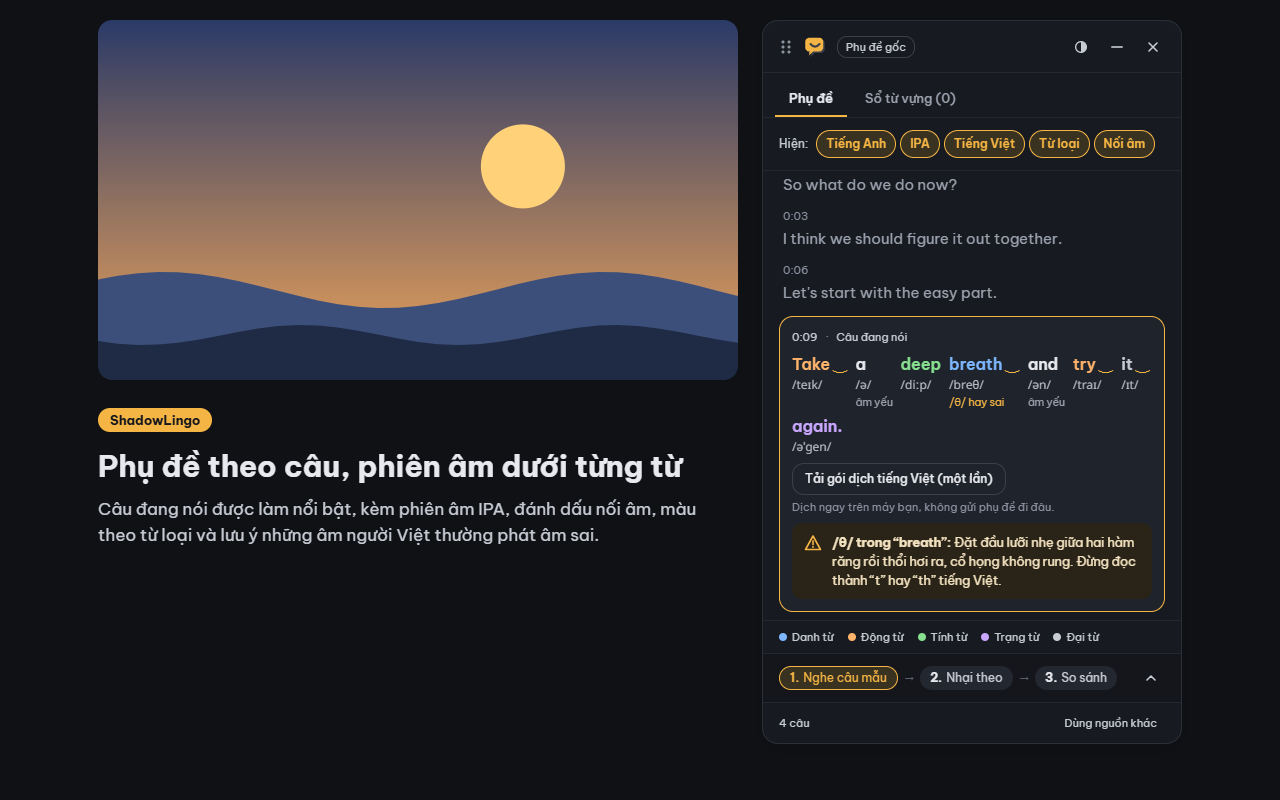
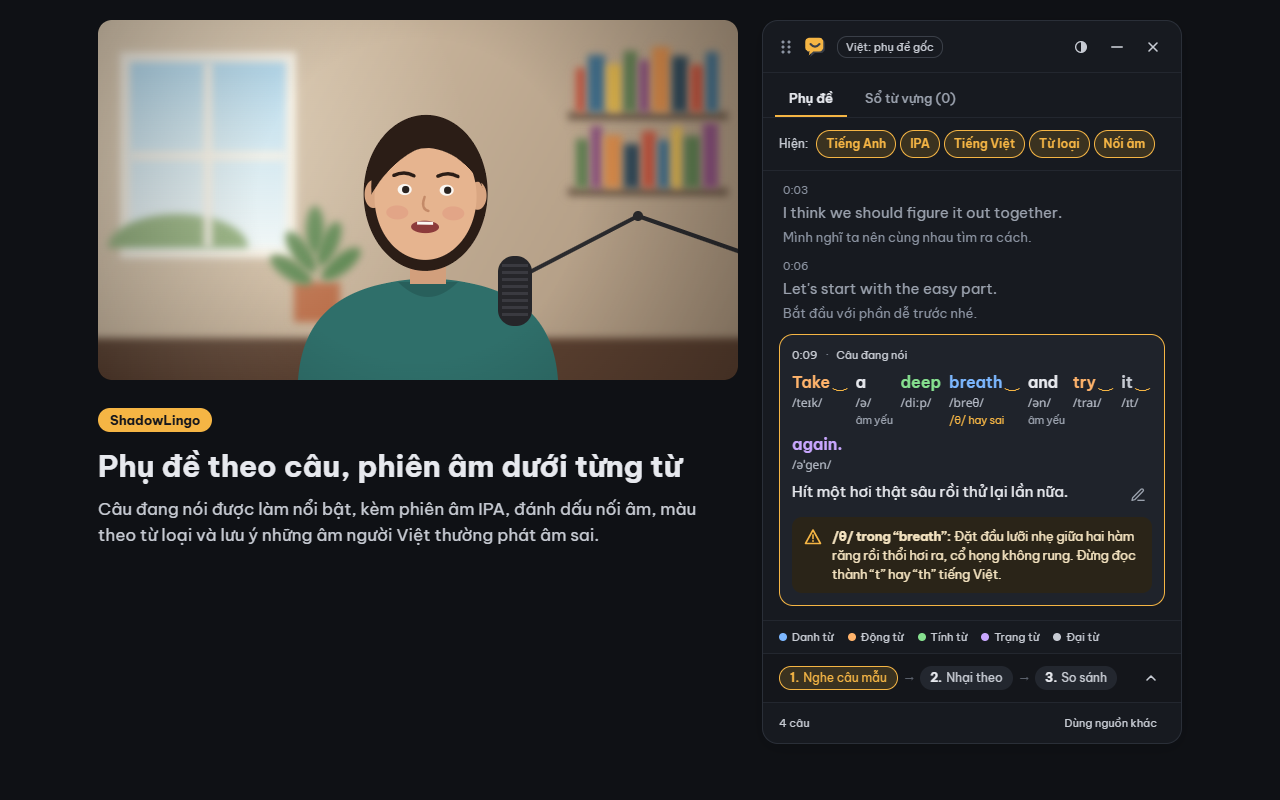
docs: demos show a speaker scene and Vietnamese captions

Changed region(s): [[0.0625, 0.0, 0.9062, 0.75], [0.6562, 0.0312, 0.7188, 0.0625]]

diff --git a/apps/extension/e2e/demo/scene.ts b/apps/extension/e2e/demo/scene.ts
@@ -1,0 +1,200 @@
+// The drawn "video" for the README demos and store screenshots, shared by the extension and the
+// desktop demo: a speaker in a room, like a podcast shot. No real video or person is shown.
+// Kept free of imports and outer variables: callers send its source into the page as a string.
+
+/**
+ * Draws the scene on `canvas` (any 16:9 size) every frame. The speaker talks while a line is
+ * on; `burned` also paints the lines on the picture, like burned-in subtitles.
+ */
+export function speakerScene(
+  canvas: HTMLCanvasElement,
+  lines: [number, number, string][],
+  burned: boolean,
+): void {
+  const k = canvas.width / 640;
+  const g = canvas.getContext('2d');
+  if (!g) return;
+  // A drawn speaker in a room, like a podcast or vlog shot. The room is drawn once, blurred
+  // like a shallow depth of field; the speaker moves, blinks and talks over it.
+  const room = document.createElement('canvas');
+  room.width = canvas.width;
+  room.height = canvas.height;
+  const r = room.getContext('2d');
+  if (!r) return;
+  r.scale(k, k);
+  r.filter = `blur(${4 * k}px)`;
+  const wall = r.createLinearGradient(0, 0, 640, 360);
+  wall.addColorStop(0, '#d9c6ad');
+  wall.addColorStop(1, '#a8927a');
+  r.fillStyle = wall;
+  r.fillRect(-10, -10, 660, 380);
+  const sky = r.createLinearGradient(0, 40, 0, 230);
+  sky.addColorStop(0, '#9fd0ee');
+  sky.addColorStop(1, '#eef7fb');
+  r.fillStyle = '#f4efe6';
+  r.fillRect(22, 32, 176, 206);
+  r.fillStyle = sky;
+  r.fillRect(32, 42, 156, 186);
+  r.fillStyle = '#7fa36b';
+  r.beginPath();
+  r.ellipse(80, 228, 70, 34, 0, Math.PI, 0);
+  r.fill();
+  r.fillStyle = '#f4efe6';
+  r.fillRect(106, 42, 8, 186);
+  r.fillRect(32, 132, 156, 8);
+  r.fillStyle = '#6e5a48';
+  r.fillRect(470, 92, 160, 8);
+  r.fillRect(470, 168, 160, 8);
+  const books = ['#c4553f', '#3f6e8c', '#e0b54a', '#5d7d4f', '#8a4f7d', '#d98b4a', '#2f4858'];
+  for (const [shelf, y] of [92, 168].entries()) {
+    let x = 478;
+    for (let i = 0; x < 620; i++) {
+      const w = 10 + ((i * 7 + shelf * 3) % 9);
+      const h = 44 + ((i * 13 + shelf * 5) % 22);
+      r.fillStyle = books[(i + shelf * 3) % books.length] ?? '#c4553f';
+      r.fillRect(x, y - h, w, h);
+      x += w + 2;
+    }
+  }
+  r.fillStyle = '#b5653f';
+  r.fillRect(196, 262, 46, 40);
+  r.fillStyle = '#4f7d45';
+  const leaves: [number, number, number][] = [
+    [-16, -30, -0.6],
+    [12, -38, 0.4],
+    [-2, -52, 0],
+    [24, -18, 0.9],
+    [-26, -12, -1],
+  ];
+  for (const [dx, dy, a] of leaves) {
+    r.beginPath();
+    r.ellipse(219 + dx, 262 + dy, 9, 24, a, 0, Math.PI * 2);
+    r.fill();
+  }
+  r.fillStyle = '#5b4030';
+  r.fillRect(-10, 318, 660, 60);
+  r.filter = 'none';
+  const glow = r.createRadialGradient(110, 130, 10, 110, 130, 260);
+  glow.addColorStop(0, 'rgba(255,248,230,0.35)');
+  glow.addColorStop(1, 'rgba(255,248,230,0)');
+  r.fillStyle = glow;
+  r.fillRect(0, 0, 640, 360);
+
+  const SKIN = '#e6b48f';
+  const ell = (x: number, y: number, rx: number, ry: number, fill: string) => {
+    g.fillStyle = fill;
+    g.beginPath();
+    g.ellipse(x, y, rx, ry, 0, 0, Math.PI * 2);
+    g.fill();
+  };
+  const t0 = performance.now();
+  const draw = () => {
+    const t = (performance.now() - t0) / 1000;
+    const ms = t * 1000;
+    g.setTransform(k, 0, 0, k, 0, 0);
+    g.drawImage(room, 0, 0, 640, 360);
+    // Talks while a line is on, with a short pause at the end of each line.
+    const row = lines.find(([a, b]) => ms % 13000 >= a && ms % 13000 < b - 450);
+    const talk = row ? Math.max(0, Math.sin(t * 17) * 0.6 + Math.sin(t * 7.3) * 0.4) : 0;
+    const blink = t % 3.7 < 0.13 ? 0.1 : 1;
+    const hx = Math.sin(t * 0.9) * 3;
+    const hy = Math.sin(t * 1.7) * 1.5;
+
+    // Shoulders and sweater.
+    g.fillStyle = '#2f6f6a';
+    g.beginPath();
+    g.moveTo(200, 360);
+    g.bezierCurveTo(205, 290, 250, 262, 330, 258);
+    g.bezierCurveTo(410, 262, 455, 290, 460, 360);
+    g.fill();
+    g.fillStyle = '#285f5b';
+    g.beginPath();
+    g.moveTo(300, 262);
+    g.quadraticCurveTo(330, 292, 360, 262);
+    g.fill();
+    g.fillStyle = '#d29f7c';
+    g.fillRect(312, 214, 36, 50);
+
+    g.save();
+    g.translate(330 + hx, 170 + hy);
+    g.rotate(Math.sin(t * 0.6) * 0.03);
+    // Hair behind, ears, face.
+    ell(0, 2, 62, 78, '#2b1d16');
+    ell(-52, 4, 9, 14, '#d9a682');
+    ell(52, 4, 9, 14, '#d9a682');
+    ell(0, 6, 51, 63, SKIN);
+    // Fringe.
+    g.fillStyle = '#2b1d16';
+    g.beginPath();
+    g.moveTo(-54, 4);
+    g.bezierCurveTo(-62, -74, 44, -90, 56, -6);
+    g.bezierCurveTo(36, -40, 4, -48, -12, -40);
+    g.bezierCurveTo(-30, -30, -44, -14, -54, 4);
+    g.fill();
+    // Cheeks, brows, eyes, nose, mouth.
+    ell(-28, 22, 11, 7, 'rgba(214,120,110,0.25)');
+    ell(28, 22, 11, 7, 'rgba(214,120,110,0.25)');
+    g.strokeStyle = '#2b1d16';
+    g.lineWidth = 3.5;
+    g.lineCap = 'round';
+    for (const s of [-1, 1]) {
+      g.beginPath();
+      g.moveTo(s * 12, -14 - talk * 2);
+      g.quadraticCurveTo(s * 22, -19 - talk * 2, s * 32, -14 - talk * 2);
+      g.stroke();
+      ell(s * 21, -1, 7, 5.5 * blink, '#fbf7f2');
+      if (blink === 1) ell(s * 21 + 1, -1, 3.6, 3.6, '#2a2320');
+    }
+    g.strokeStyle = '#c48a68';
+    g.lineWidth = 2.5;
+    g.beginPath();
+    g.moveTo(-1, 6);
+    g.quadraticCurveTo(-5, 18, 3, 20);
+    g.stroke();
+    const open = 2 + talk * 9;
+    ell(0, 36, 13 + talk * 2, open, '#8c3b3b');
+    if (open > 5) {
+      g.fillStyle = '#fbf7f2';
+      g.fillRect(-8, 36 - open + 1, 16, 3);
+    }
+    g.restore();
+
+    // Podcast microphone on an arm, below the face.
+    g.strokeStyle = '#2b2b2e';
+    g.lineWidth = 4;
+    g.lineJoin = 'round';
+    g.beginPath();
+    g.moveTo(660, 238);
+    g.lineTo(540, 196);
+    g.lineTo(432, 252);
+    g.stroke();
+    ell(540, 196, 5, 5, '#2b2b2e');
+    g.fillStyle = '#26262a';
+    g.beginPath();
+    g.roundRect(400, 236, 34, 70, 16);
+    g.fill();
+    g.fillStyle = '#3a3a40';
+    for (let y = 244; y < 296; y += 7) g.fillRect(404, y, 26, 3);
+
+    const vignette = g.createRadialGradient(320, 180, 160, 320, 180, 420);
+    vignette.addColorStop(0, 'rgba(0,0,0,0)');
+    vignette.addColorStop(1, 'rgba(0,0,0,0.35)');
+    g.fillStyle = vignette;
+    g.fillRect(0, 0, 640, 360);
+    if (burned) {
+      const at = ms - 3000;
+      const line = at < 0 ? '' : (lines.find(([a, b]) => at >= a && at < b)?.[2] ?? '');
+      if (line) {
+        g.font = 'bold 26px Arial';
+        g.textAlign = 'center';
+        g.lineWidth = 5;
+        g.strokeStyle = '#000';
+        g.strokeText(line, 320, 318);
+        g.fillStyle = '#fff';
+        g.fillText(line, 320, 318);
+      }
+    }
+    requestAnimationFrame(draw);
+  };
+  draw();
+}

diff --git a/apps/extension/e2e/demo/readme.demo.ts b/apps/extension/e2e/demo/readme.demo.ts
@@ -6,6 +6,7 @@ import { dirname, join } from 'node:path';
 import { fileURLToPath } from 'node:url';
 import { CAPTIONS, expect, openWatch, test } from '../fixtures';
 import type { Page } from '@playwright/test';
+import { speakerScene } from './scene';
 
 const OUT =
   process.env.DEMO_OUT ?? join(dirname(fileURLToPath(import.meta.url)), '../../demo-frames');
@@ -25,11 +26,20 @@ const json3 = (rows: [number, number, string][]) =>
     })),
   });
 CAPTIONS.demoVideo01 = json3(LINES);
+// Human Vietnamese captions for the same lines (the player loads them when "Tiếng Việt" is picked).
+CAPTIONS['demoVideo01:vi'] = json3([
+  [0, 3000, 'Vậy giờ mình làm gì đây?'],
+  [3000, 6500, 'Mình nghĩ ta nên cùng nhau tìm ra cách.'],
+  [6500, 9500, 'Bắt đầu với phần dễ trước nhé.'],
+  [9500, 13000, 'Hít một hơi thật sâu rồi thử lại lần nữa.'],
+]);
 
 const CLIP = { x: 12, y: 12, width: 1108, height: 784 };
 
 /** Our own moving scene in the player (no real video), optionally with burned-in lines. */
 async function stage(page: Page, title: string, text: string, burned: boolean, light: boolean) {
+  // The shared scene goes in as source (it has no imports or outer variables).
+  await page.evaluate(`window.slScene = ${speakerScene.toString()}`);
   await page.evaluate(
     ({ title, text, burned, lines, light }) => {
       if (light) document.documentElement.removeAttribute('dark');
@@ -58,50 +68,7 @@ async function stage(page: Page, title: string, text: string, burned: boolean, l
       const canvas = document.createElement('canvas');
       canvas.width = 640;
       canvas.height = 360;
-      const g = canvas.getContext('2d');
-      if (!g) return;
-      const t0 = performance.now();
-      const draw = () => {
-        const t = (performance.now() - t0) / 1000;
-        const sky = g.createLinearGradient(0, 0, 0, 360);
-        sky.addColorStop(0, '#2b3a67');
-        sky.addColorStop(1, '#f2a65a');
-        g.fillStyle = sky;
-        g.fillRect(0, 0, 640, 360);
-        g.fillStyle = '#ffd27a';
-        g.beginPath();
-        g.arc(470 - t * 4, 150 + Math.sin(t / 2) * 6, 42, 0, Math.PI * 2);
-        g.fill();
-        g.fillStyle = '#3c4f7a';
-        g.beginPath();
-        g.moveTo(0, 300);
-        for (let x = 0; x <= 640; x += 20) g.lineTo(x, 270 + Math.sin(x / 70 + t / 3) * 18);
-        g.lineTo(640, 360);
-        g.lineTo(0, 360);
-        g.fill();
-        g.fillStyle = '#1f2a44';
-        g.beginPath();
-        g.moveTo(0, 330);
-        for (let x = 0; x <= 640; x += 20) g.lineTo(x, 315 + Math.sin(x / 50 - t / 2) * 10);
-        g.lineTo(640, 360);
-        g.lineTo(0, 360);
-        g.fill();
-        if (burned) {
-          const ms = t * 1000 - 3000;
-          const line = ms < 0 ? '' : (lines.find(([a, b]) => ms >= a && ms < b)?.[2] ?? '');
-          if (line) {
-            g.font = 'bold 26px Arial';
-            g.textAlign = 'center';
-            g.lineWidth = 5;
-            g.strokeStyle = '#000';
-            g.strokeText(line, 320, 318);
-            g.fillStyle = '#fff';
-            g.fillText(line, 320, 318);
-          }
-        }
-        requestAnimationFrame(draw);
-      };
-      draw();
+      (window as unknown as { slScene: typeof speakerScene }).slScene(canvas, lines, burned);
       const video = document.querySelector('video');
       if (!video) return;
       video.srcObject = canvas.captureStream(20);
@@ -146,6 +113,13 @@ test('demo subtitles', async ({ page }) => {
     false,
     false,
   );
+  // The learner picked "Tiếng Việt" in the player's CC menu once: human Vietnamese lines.
+  await page.evaluate(() => {
+    (
+      window as unknown as { fixture: { loadCaptions(v: string, a: boolean, l: string): void } }
+    ).fixture.loadCaptions('demoVideo01', false, 'vi');
+  });
+  await expect(page.getByTestId('sl-vi-spoken')).toBeVisible();
   await page.waitForTimeout(800);
   await film(page, 'subtitles', () => page.waitForTimeout(10_500));
 });
@@ -163,6 +137,13 @@ test('demo word', async ({ page }) => {
   );
   await page.waitForTimeout(3600);
   await page.evaluate(() => document.querySelector('video')?.pause());
+  // Warm the dictionary off camera: its first load is slow while frames are being taken.
+  await page.getByTestId('sl-word').filter({ hasText: 'figure' }).first().click();
+  await expect(page.getByTestId('sl-word-card')).toHaveAttribute('data-status', 'ready', {
+    timeout: 30_000,
+  });
+  await page.keyboard.press('Escape');
+  await expect(page.getByTestId('sl-word-card')).toHaveCount(0);
   await film(page, 'word', async () => {
     await page.waitForTimeout(900);
     await page.getByTestId('sl-word').filter({ hasText: 'figure' }).first().click();

diff --git a/apps/desktop/e2e/demo/readme.demo.ts b/apps/desktop/e2e/demo/readme.demo.ts
@@ -5,20 +5,26 @@ import { mkdirSync, mkdtempSync } from 'node:fs';
 import { tmpdir } from 'node:os';
 import { join } from 'node:path';
 import { _electron, expect, test } from '@playwright/test';
+import { speakerScene } from '../../../extension/e2e/demo/scene';
 
 const OUT = process.env.DEMO_OUT ?? join(__dirname, '../../demo-frames');
 mkdirSync(OUT, { recursive: true });
 const VIDEO = 'demoVideo01';
+const LINES: [number, number, string][] = [
+  [0, 3000, 'So what do we do now?'],
+  [3000, 6500, 'I think we should figure it out together.'],
+  [6500, 9500, "Let's start with the easy part."],
+  [9500, 13000, 'Take a deep breath and try it again.'],
+];
 const CAPTIONS = JSON.stringify({
-  events: [
-    [0, 3000, 'So what do we do now?'],
-    [3000, 6500, 'I think we should figure it out together.'],
-    [6500, 9500, "Let's start with the easy part."],
-    [9500, 13000, 'Take a deep breath and try it again.'],
-  ].map(([t, e, s]) => ({ tStartMs: t, dDurationMs: Number(e) - Number(t), segs: [{ utf8: s }] })),
+  events: LINES.map(([t, e, s]) => ({
+    tStartMs: t,
+    dDurationMs: Number(e) - Number(t),
+    segs: [{ utf8: s }],
+  })),
 });
 
-/** A stand-in player: our own sunset scene, playing, then the captions it "loads". */
+/** A stand-in player: the shared drawn scene, playing, then the captions it "loads". */
 const EMBED = `<!doctype html><html><body style="margin:0;background:#000;overflow:hidden">
 <canvas id="c" style="display:block;width:100vw;height:100vh"></canvas>
 <script>
@@ -31,25 +37,9 @@ const EMBED = `<!doctype html><html><body style="margin:0;background:#000;overfl
     }
   });
   const c = document.getElementById('c');
-  const g = c.getContext('2d');
+  c.width = 1280; c.height = 720;
+  (${speakerScene.toString()})(c, ${JSON.stringify(LINES)}, false);
   const t0 = performance.now();
-  const draw = () => {
-    const t = (performance.now() - t0) / 1000;
-    c.width = innerWidth; c.height = innerHeight;
-    const w = c.width, h = c.height, k = w / 640;
-    const sky = g.createLinearGradient(0, 0, 0, h);
-    sky.addColorStop(0, '#2b3a67'); sky.addColorStop(1, '#f2a65a');
-    g.fillStyle = sky; g.fillRect(0, 0, w, h);
-    g.fillStyle = '#ffd27a'; g.beginPath(); g.arc((470 - t * 4) * k, (150 + Math.sin(t / 2) * 6) * k, 42 * k, 0, Math.PI * 2); g.fill();
-    g.fillStyle = '#3c4f7a'; g.beginPath(); g.moveTo(0, h);
-    for (let x = 0; x <= 640; x += 20) g.lineTo(x * k, (270 + Math.sin(x / 70 + t / 3) * 18) * k);
-    g.lineTo(w, h); g.fill();
-    g.fillStyle = '#1f2a44'; g.beginPath(); g.moveTo(0, h);
-    for (let x = 0; x <= 640; x += 20) g.lineTo(x * k, (315 + Math.sin(x / 50 - t / 2) * 10) * k);
-    g.lineTo(w, h); g.fill();
-    requestAnimationFrame(draw);
-  };
-  draw();
   setInterval(() => send({ event: 'infoDelivery', info: { currentTime: (performance.now() - t0) / 1000 + 3.5, playerState: 1 } }), 250);
   setTimeout(() => fetch('/api/timedtext?v=${VIDEO}&lang=en&fmt=json3'), 500);
 </script></body></html>`;
